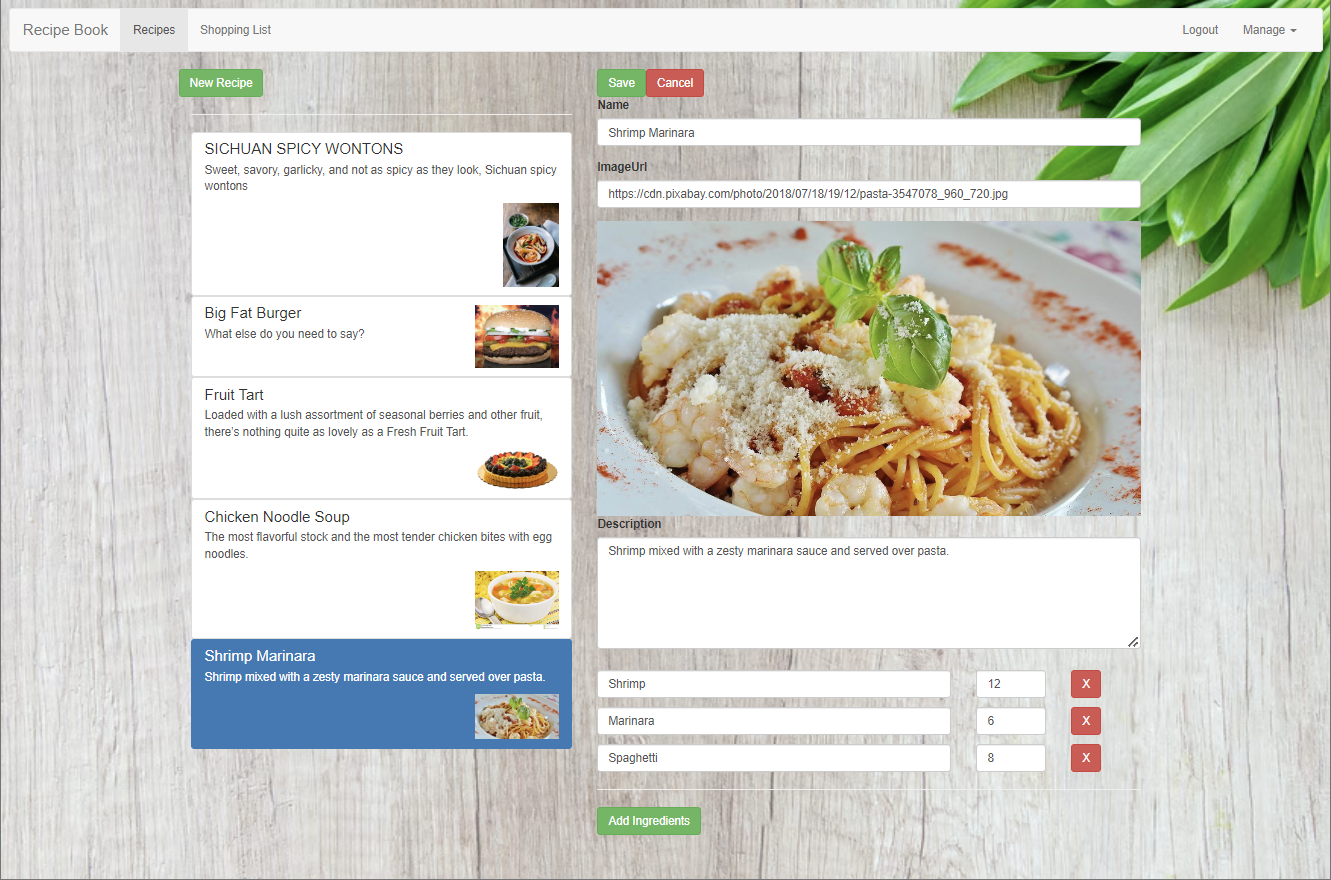
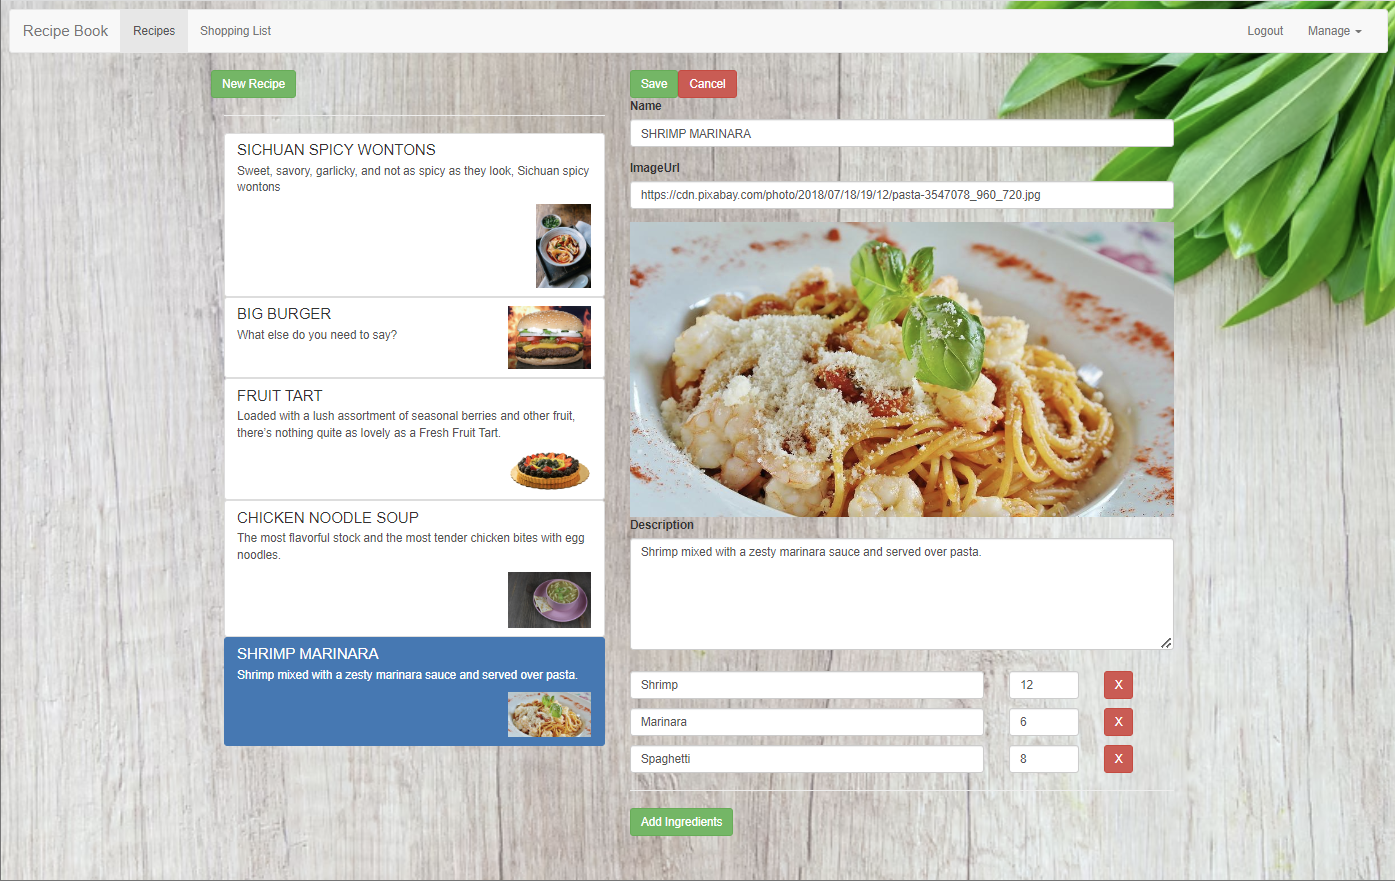
ReadMe and github images update

diff --git a/src/app/recipes/recipe.model.ts b/src/app/recipes/recipe.model.ts
@@ -8,7 +8,7 @@ export class Recipe{
     public ingredients: Ingredient[];
 
     constructor(name:string, desc:string, imagePath:string, ingredients: Ingredient[]){
-        this.name = name;
+        this.name = name.toUpperCase();
         this.description = desc;
         this.imagePath = imagePath;
         this.ingredients = ingredients;

diff --git a/README.md b/README.md
@@ -18,8 +18,18 @@ Recipe Book and Shopping List Angular app hosted on Firebase. Login/Signup with 
 
 <hr>
 
+<h3>Manage Recipes</h3>
+<img src="images_for_github/recipes-manage.png" alt="recipes-manage" width="200%" height="200%">
+
+<hr>
+
 <h3>Shopping-List Page</h3>
 <img src="images_for_github/shopping-list.png" alt="Shopping-List Page" width="200%" height="200%">
+
+<hr>
+
+<h3>Save and Fetch: Saving and fetching from Firebase database.</h3>
+<img src="images_for_github/save-fetch.png" alt="save-fetch" width="200%" height="200%">
 
 <hr>
 
